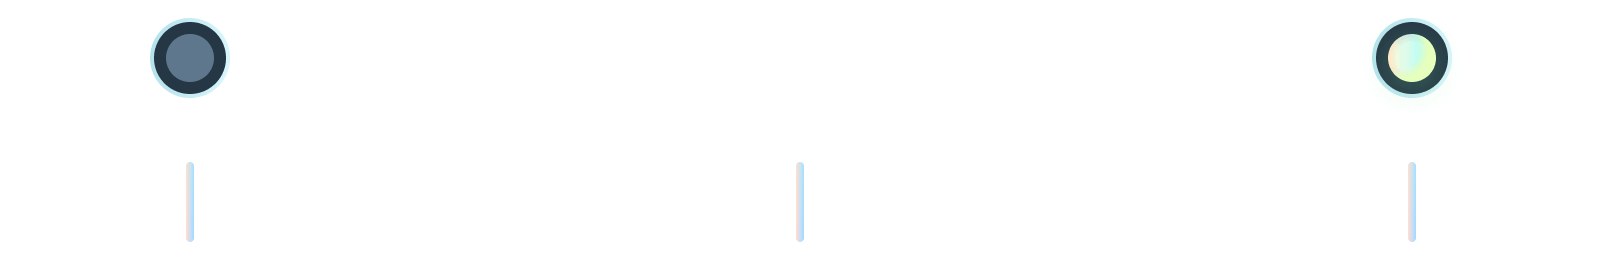
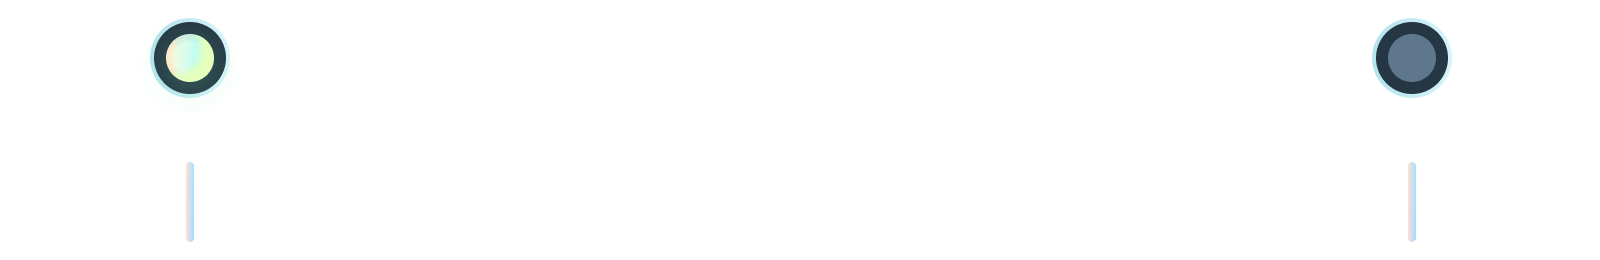
upd music ai

Changed region(s): [[0.0938, 0.1231, 0.1562, 0.3077], [0.8438, 0.1231, 0.9062, 0.3077]]

diff --git a/app/music/setup/page.js b/app/music/setup/page.js
@@ -20,11 +20,11 @@ export default function Register() {
     const [numProses1, setNumProses1] = useState(null);
     const [Name, setName] = useState(null);
     const [slideIndex, setSlideIndex] = useState(0);
-    const [slideIndex2, setSlideIndex2] = useState(1);
+    const [slideIndex2, setSlideIndex2] = useState(0);
     const [moodType, setMoodType] = useState('emotional');
     const [swipeTrigger, setSwipeTrigger] = useState(false);
     const [sliderProgress, setSliderProgress] = useState(0);
-    const [sliderProgress2, setSliderProgress2] = useState(50);
+    const [sliderProgress2, setSliderProgress2] = useState(0);
     const [maxDuration, setMaxDuration] = useState(5);
     const [countdownStart, setCountdownStart] = useState(false);
     const [statusAPI, setStatusAPI] = useState();
@@ -88,11 +88,8 @@ export default function Register() {
         const progress = (tempSliderValue / 100) * 100;
         // console.log(progress)
 
-        let progressBagi = progress / 50;
+        let progressBagi = progress / 100;
         setSlideIndex2(progressBagi)
-        if(progressBagi == 0) setMoodType('emotional')
-        else if(progressBagi == 1) setMoodType('energetic')
-        else if(progressBagi == 2) setMoodType('loveanthem')
     }
 
     // COUNTDOWN
@@ -168,14 +165,14 @@ export default function Register() {
                     <div className={`absolute top-0 left-0 w-full pointer-events-none z-10 transition-all ${slideIndex2 == 1 ? `` : 'opacity-0'}`}>
                         <Image src='/music/meter2-22.png' width={800} height={130} alt='Zirolu' className='w-full' priority />
                     </div>
-                    <div className={`absolute top-0 left-0 w-full pointer-events-none z-10 transition-all ${slideIndex2 == 2 ? `` : 'opacity-0'}`}>
+                    {/* <div className={`absolute top-0 left-0 w-full pointer-events-none z-10 transition-all ${slideIndex2 == 2 ? `` : 'opacity-0'}`}>
                         <Image src='/music/meter2-32.png' width={800} height={130} alt='Zirolu' className='w-full' priority />
-                    </div>
+                    </div> */}
                 </div>
                 <div className="relative w-[300px] mx-auto">
                     <input type="range" 
                     name="setupslider2"
-                    step="50"
+                    step="100"
                     min="0"
                     max="100"
                     value={sliderProgress2} 
